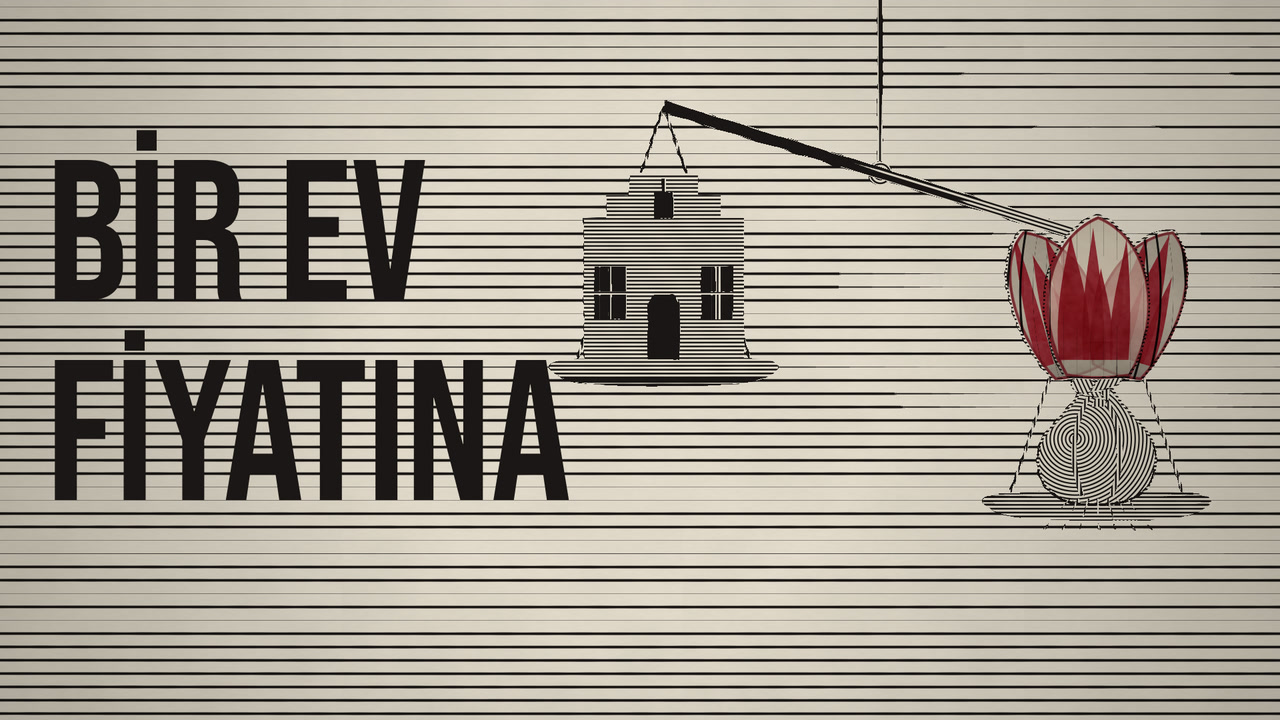
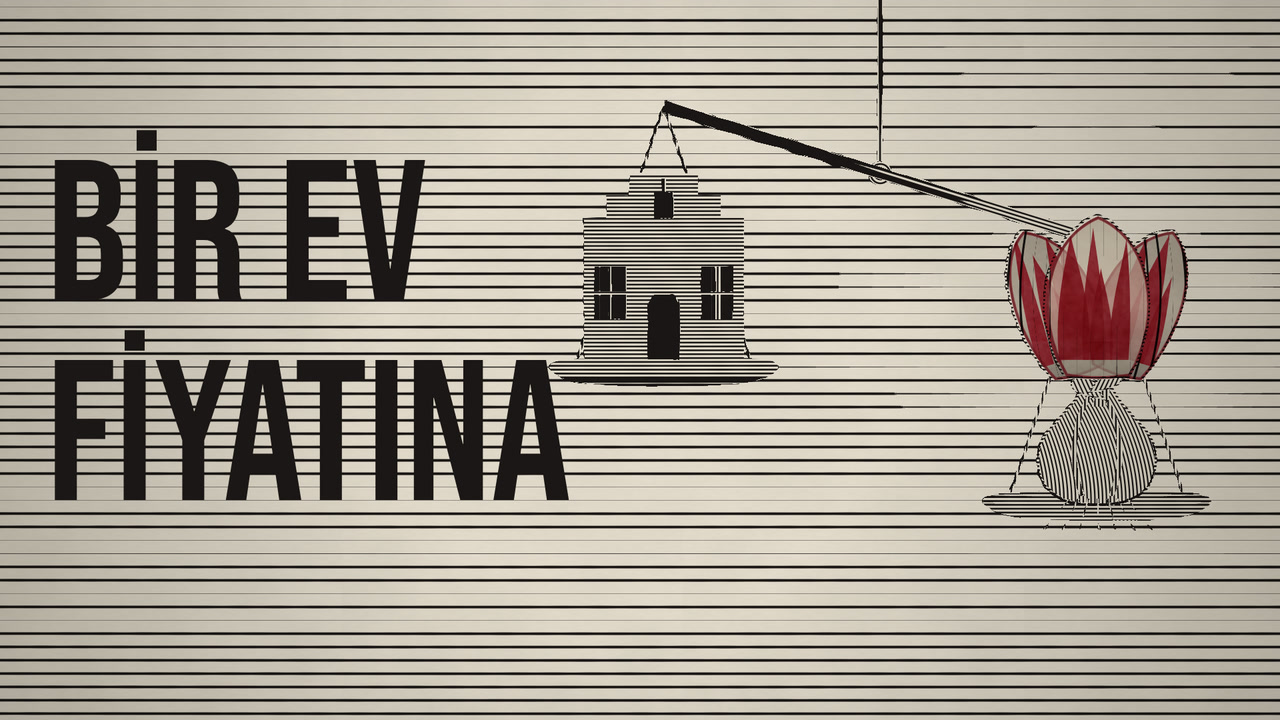
Lale Çılgınlığı: gerileme okumasının bulguları: halka tarama (hedef tahtası) sarık, soğan, kese, para, halat, hokka ve mühürden kaldırıldı (soğanda boyuna kabuk çizgisi); kaftanda kenar ışığı kaftanın kendi kenarında, önde açık çizgi yok; Patrona'nın çıkını kaldırıldı (kalkan okunuyordu); liste satı
Claude-Session: https://claude.ai/code/session_01DiDBPDZctK6KxWNTMmyQpA

Changed region(s): [[0.8125, 0.55, 0.9062, 0.7028]]

diff --git a/lale-cilginligi/lib/sahneler.js b/lale-cilginligi/lib/sahneler.js
@@ -151,7 +151,7 @@ PL('P015a', 'B05', 'SAN', 'ayrinti', st => { const u = io(st.lt / Math.max(2, st
   for (let i = 0; i < 7; i++) { const a = clamp((st.lt - .2 - i * .18) / .3); if (a > 0) LALE.sogan(650 + (i % 4) * 140 + (i > 3 ? 70 : 0), 650 - (i > 3 ? 56 : 0) - (1 - a) * 40, .7, { ton: .55 }); }
   GR.fill(SET.R(560, 680, 640, 56), GR.tone(.3), { th: 0, id: 9 }); GR.fill(SET.R(560, 680, 640, 6), GR.tone(.12), { th: 0, id: 9 });
   SET2.sayfa(1250, 520, 300, 190, { ton: .95 }); YAZI.ekle('Tulipan', 1296, 610, { font: 'el', px: 44 });
-  GR.fill(SET.E2(1500, 680, 24, 24), GR.tone(.14), { type: 'rad', cx: 1494, cy: 674, id: 9 });
+  GR.fill(SET.E2(1500, 680, 24, 20), GR.tone(.14), { th: .5, id: 9 });   // mühür
 } }; });
 PL('P015', 'B05@bin', 'LEI', 'genis', st => ({ cam: camLerp(CAM(960, 560, 1), CAM(860, 600, 1.1), st.p), bg: [.9, 0, 10], ciz: () => SET2.leiden(st.t) }),
   { over: etk('LEIDEN · 1593 · CAROLUS CLUSIUS') });
@@ -181,7 +181,7 @@ PL('P023', 'C04', 'ALE', 'yakin', st => ({ cam: camLerp(CAM(960, 600, 1.2), CAM(
 PL('P024a', 'C05', 'SEM', 'ayrinti', st => ({ cam: camLerp(CAM(960, 470, 1.0), CAM(960, 420, 1.12), st.p), bg: [.06, 0, 10], ciz: () => { GR.fill(SET.R(-200, -200, 2400, 1500), GR.tone(.05), { th: 0, id: 10 }); },
   // koyu duvar: künye (beyaz yazı) okunur; görsel künyenin altından başlar
   sonra: (ctx, cam) => { SET2.gorsel(ctx, cam, 'semper', 725, 150, 470, { golge: true }); } }),
-  { over: etk('SEMPER AUGUSTUS · ANONİM SULUBOYA, 1640 ÖNCESİ (NORTON SIMON MÜZESİ)', { px: 32 }) });
+  { over: etk('SEMPER AUGUSTUS · ANONİM SULUBOYA, 1640 ÖNCESİ', { px: 36 }) });
 PL('P024', 'C05@bin', 'AYN', 'orta', st => ({ cam: camLerp(CAM(960, 520, 1), CAM(960, 520, 1.12), st.p), bg: [.2, 0, 0], ciz: () => SET2.aynaKabine(st.t) }),
   { over: (ctx, st) => { const k = W_(st, 'C05', 'bin', 1); buyukYazi('1.200 GULDEN', { y: 800, px: 84, t0: k })(ctx, st); } });
 PL('P025', 'C06', 'KES', 'yakin', st => { const g = io((st.lt - 1.6) / .8); return { cam: camLerp(CAM(960, 620, 1.3), CAM(960, 620, 1.4), st.p), bg: [.15, 0, 0], ciz: () => {
@@ -204,7 +204,7 @@ PL('P032', 'D03', 'ODA', 'orta', st => ({ cam: camLerp(CAM(960, 620, 1.1), CAM(9
   SET2.arkaOda(st.t);
   const pos = [[560, 760], [960, 720], [1360, 760]], k = (st.lt * .8) % 3, i = Math.floor(k), u = E.io2(k - i), a = pos[i], b = pos[(i + 1) % 3];
   SET2.sayfa(lerp(a[0], b[0], u) - 70, lerp(a[1], b[1], u) - 120 - Math.sin(u * PI) * 60, 140, 100, { ton: .95 });
-  INSAN.adam({ x: 380, y: 1200, h: 800, yon: 1, arka: true, sapka: 'genis', yaka: 'duz', kenar: .35, kolOn: { a: .9, b: 1.0 } });
+  INSAN.adam({ x: 380, y: 1200, h: 800, yon: 1, arka: true, sapka: 'genis', yaka: 'duz', kenar: .75, kolOn: { a: .9, b: 1.0 } });   // koyu zeminde baş seçilsin
   SET2.usta({ x: 1560, y: 1200, h: 800, yon: -1, kenar: .4, kenarYan: -1, kolOn: { a: .9, b: 1.0 } });
 } }));
 PL('P033', 'D04', 'RUZ', 'genis', st => ({ cam: camLerp(CAM(960, 520, 1), CAM(1100, 500, 1.08), st.p), bg: [.9, 0, 10], ciz: () => {
@@ -216,22 +216,24 @@ PL('P033', 'D04', 'RUZ', 'genis', st => ({ cam: camLerp(CAM(960, 520, 1), CAM(11
 // D05: gerçek görsel. Crispijn van de Passe II, Floraes Mallewagen (1637), köşe resmi: Haarlem'de çiçekçilerin meyhane toplantısı (Rijksmuseum, CC0)
 PL('P034', 'D05', 'ODA', 'yakin', st => ({ cam: camLerp(CAM(960, 540, 1.0), CAM(1060, 520, 1.12), st.p), bg: [.15, 0, 0], ciz: () => { SET2.masaUst(-300, { ton: .14 }); },
   sonra: (ctx, cam) => { SET2.gorsel(ctx, cam, 'mwMeyhane', 160, 60, 1600, { kirp: [0, 0, 1, .86] }); } }),
-  { over: etk('“COMPARITY DER BLOEMISTEN TOT HARLEM” · 1637 GRAVÜRÜ (RIJKSMUSEUM)', { y: 120, px: 34 }) });
+  { over: etk('HAARLEM MEYHANESİNDE ÇİÇEKÇİLER · 1637 GRAVÜRÜ', { y: 120, px: 36 }) });
 // Switsers: fiyat çizgisi gibi yükselen sap; renk koyulaşır
 PL('P035', 'D06', 'SWI', 'ayrinti', st => { const u = io((st.lt - .5) / Math.max(1, st.d - 1)); return { cam: camLerp(CAM(960, 560, 1), CAM(960, 556, 1.05), st.p), bg: [.88, 0, 10], ciz: () => {
   GR.fill(SET.R(-200, -200, 2400, 1500), GR.tone(.93), { th: 0, id: 10 });
   for (let k = 0; k < 6; k++) GR.fill(SET.R(260, 800 - k * 118, 1400, 2), GR.tone(.5), { th: 0, id: 9 });
-  const x = 1500, y = 800 - u * 560;
-  const p = new Path2D(); p.moveTo(300, 780); p.bezierCurveTo(800, 772, 1200, 712 - u * 260, x, y + 40); p.lineTo(x + 6, y + 44); p.bezierCurveTo(1200, 718 - u * 260, 800, 778, 300, 786); p.closePath();
+  // eğri soldan sağa büyür ve hep yükselir (önceki çizimde ilk saniyede uç aşağı iniyordu: fiyat artarken düşüş)
+  const x = 300 + u * 1200, y = 780 - u * u * 540, v = Math.round(125 + u * u * 1375);
+  const p = new Path2D(); p.moveTo(300, 780); p.bezierCurveTo(300 + u * 700, 780, 300 + u * 1000, 780 - u * u * 160, x, y); p.lineTo(x + 4, y + 6); p.bezierCurveTo(300 + u * 1000, 786 - u * u * 160, 300 + u * 700, 786, 300, 786); p.closePath();
   GR.fill(p, GR.tone(.15), { th: 0, id: 9 });
-  LALE.ciz(x, y, 1.2 + u * .6, { sap: 0, cesit: 'switsers', ac: .2 + u * .2, renk: .4 + u * .6 });
-  YAZI.ekle('31 ARALIK 1636 · 125', 300, 836, { font: 'baslik', px: 36 }); YAZI.ekle('1 ŞUBAT 1637 · ' + Math.round(125 + u * 1375), 1180, 836, { font: 'baslik', px: 36 });
+  LALE.ciz(x, y - 4, 1.2 + u * .6, { sap: 0, cesit: 'switsers', ac: .2 + u * .2, renk: .4 + u * .6 });
+  YAZI.ekle('31 ARALIK 1636 · 125', 300, 836, { font: 'baslik', px: 36 }); YAZI.ekle((u > .97 ? '1 ŞUBAT 1637 · ' : '') + v, 1180, 836, { font: 'baslik', px: 36 });
 } }; }, { over: etk('SWITSERS · BİR LİBRESİ KAÇ GULDEN') });
 PL('P036', 'D07', 'MEZ', 'orta', st => ({ cam: camLerp(CAM(1040, 560, 1.3), CAM(1060, 540, 1.4), st.p), bg: [.1, 0, 0], ciz: () => mezatSalonu(st, { mezatKol: 2.1 }) }));
 PL('P037', 'D08', 'LIS', 'ayrinti', st => { const k = W_(st, 'D08', 'kâğıt'); return { cam: camLerp(CAM(960, 520, 1.1), CAM(960, 540, 1.0), st.p), bg: [.2, 0, 0], ciz: () => {
   SET2.masaUst(-300, { ton: .2 }); SET2.sayfa(560, 80, 800, 720, { ton: .95, cerceve: true });
   YAZI.ekle('Lijste van eenighe Tulpaen', 960, 170, { font: 'baslik', px: 40, align: 'center' });
   YAZI.ekle('verkocht aen de meest-biedende, op den 5. Februarij 1637', 960, 215, { font: 'italik', px: 28, align: 'center' });
+  GR.fill(SET.R(600, 255, 720, 220), GR.tone(1), { th: 0, id: 10 });   // satırların arkası temiz kâğıt
   const L = [['Viceroy', '4203'], ['Bruyn Purper', '2025'], ['Paragon van Delft', '605'], ['…', '']];
   L.forEach(([a, b], i) => { YAZI.ekle(a, 640, 290 + i * 52, { font: 'serif', px: 32 }); YAZI.ekle(b ? b + ' gl.' : '', 1280, 290 + i * 52, { font: 'serif', px: 32, align: 'right' }); });
   YAZI.ekle('90.000', 960, 620, { font: 'baslik', px: 64, align: 'center', a: clamp(st.lt / .8) });
@@ -287,7 +289,7 @@ PL('P046', 'E07', 'LIS', 'yakin', st => ({ cam: camLerp(CAM(960, 460, 1.4), CAM(
 
 // ═════════ 5. EFSANE ═════════
 PL('P046b', 'E07@ödendiğini', 'YET', 'orta', st => ({ cam: camLerp(CAM(960, 540, 1.08), CAM(960, 520, 1.16), st.p), bg: [.06, 0, 0], renk: 0, ciz: () => yetimler() }),
-  { over: buyukYazi('90.000 ?', { y: 160, px: 96, t0: .3 }) });
+  { over: buyukYazi('90.000?', { y: 160, px: 96, t0: .3 }) });
 PL('P050', 'F01', 'MAT', 'genis', st => ({ cam: camLerp(CAM(960, 540, 1), CAM(1000, 520, 1.1), st.p), bg: [.1, 0, 0], renk: 0, ciz: () => SET2.matbaa(st.t) }),
   { over: both(kartOver('F01'), etk('HAARLEM · 1637', { t0: 3.4 })) });
 PL('P051', 'F02', 'BRO', 'ayrinti', st => ({ cam: camLerp(CAM(960, 520, 1.15), CAM(960, 500, 1.25), st.p), bg: [.2, 0, 0], renk: 0, ciz: () => {
@@ -296,7 +298,6 @@ PL('P051', 'F02', 'BRO', 'ayrinti', st => ({ cam: camLerp(CAM(960, 520, 1.15), C
   YAZI.ekle('WAERMONDT ende GAERGOEDT', 960, 275, { font: 'baslik', px: 36, align: 'center' }); YAZI.ekle('nopende de opkomste ende ondergangh van Flora', 960, 320, { font: 'italik', px: 26, align: 'center' });
   INSAN.adam({ x: 820, y: 820, h: 420, yon: 1, sapka: 'genis', yaka: 'duz', kenar: .5, kolOn: { a: 1.0 + Math.sin(st.t * 2) * .2, b: .8 } });
   SET2.usta({ x: 1100, y: 820, h: 420, yon: -1, kenar: .5, kenarYan: -1, kolOn: { a: 1.2 + Math.sin(st.t * 2 + 1) * .2, b: .9 } });
-  YAZI.ekle('HAERLEM · ADRIAEN ROMAN · 1637', 960, 362, { font: 'baslik', px: 24, align: 'center' });
 } }), { over: (ctx, st) => { const k = W_(st, 'F02', 'doğrucu'); etiket(ctx, 'WAERMONDT = DOĞRUCU · GAERGOEDT = AÇGÖZLÜ', W / 2, 830, st.lt - k, st.d - k, { align: 'center', px: 40 }); } });
 PL('P052', 'F03', 'DOK', 'orta', st => { const k = W_(st, 'F03', 'tezgâhını'); const g = io((st.lt - k) / 1.6); return { cam: camLerp(CAM(960, 560, 1.05), CAM(960, 580, 1.12), st.p), bg: [.1, 0, 0], renk: 0, ciz: () => {
   GR.fill(SET.R(-200, -200, 2400, 1500), GR.tone(.12), { th: 0, id: 0 }); GR.fill(SET.R(-600, 900, 3100, 600), GR.tone(.25), { type: 'persp', y0: 900, D: 200, p0: 8, p1: 15, id: 8 });
@@ -326,7 +327,7 @@ PL('P056', 'F07', 'KIT', 'genis', st => ({ cam: camLerp(CAM(960, 560, 1), CAM(96
   const n = Math.min(9, 2 + Math.floor(st.lt * 1.4)); for (let i = 0; i < n; i++) SET2.kitap(700 - (i % 2) * 20, 760 - i * 66, 520, 60, { ton: .1 + (i % 3) * .2 });
 } }), { over: etk('1841 → 1900 → 1950 → 2000') });
 PL('P057', 'F08', 'ARS', 'orta', st => ({ cam: camLerp(CAM(960, 560, 1.02), CAM(1040, 660, 1.2), st.p), bg: [.07, 0, 0], renk: 0, ciz: () => {
-  SET2.arsiv(st.t); INSAN.adam({ x: 620, y: 1100, h: 640, yon: 1, arka: true, palto: .4, kenar: .45, kolOn: { a: 1.4, b: .5 } });
+  SET2.arsiv(st.t); INSAN.adam({ x: 620, y: 1100, h: 640, yon: 1, arka: true, palto: .4, kenar: .45, kolOn: { a: 1.3, b: .85 } });
 } }), { over: etk('ANNE GOLDGAR · TULIPMANIA, 2007') });
 PL('P058', 'F09', 'ARS', 'ayrinti', st => ({ cam: camLerp(CAM(960, 520, 1.15), CAM(960, 520, 1.25), st.p), bg: [.2, 0, 0], renk: 0, ciz: () => {
   SET2.masaUst(-300, { ton: .16 }); SET2.defter(360, 160, 1200, 760, { cizgi: 14 });
@@ -399,8 +400,8 @@ function narhDefteri(st, o = {}) {
 PL('P065', 'G06', 'NAR', 'ayrinti', st => ({ cam: camLerp(CAM(960, 520, 1.05), CAM(900, 480, 1.15), st.p), bg: [.2, 0, 0], ciz: () => narhDefteri(st) }),
   { over: both(etk('İSTANBUL KADILIĞI DEFTERİ · 28 HAZİRAN 1726', { px: 38, y: 100 }), (ctx, st) => etiket(ctx, 'Latin harfli aktarım: M. Münir Aktepe, 1953', W / 2, 830, st.lt - 1, st.d - 1, { align: 'center', px: 30 })) });
 PL('P066', 'G07', 'SUR', 'orta', st => ({ cam: camLerp(CAM(960, 600, 1.05), CAM(1060, 620, 1.15), st.p), bg: [.85, 0, 10], ciz: () => {
-  SET2.bogaz(st.t, { kosk: false, servi: [[200, 420]] }); SET2.gemi(1400, 700, 1, st.t);
-  SET2.osmanli({ x: 700, y: 1040, h: 560, yon: -1, sapka: 'kavuk', kenar: .45, kenarYan: -1, kolOn: { a: 1.2, b: .6 } });
+  SET2.bogaz(st.t, { kosk: false, servi: [[200, 420]] }); SET2.gemi(1660, 690, .9, st.t);
+  SET2.osmanli({ x: 700, y: 1040, h: 560, yon: -1, sapka: 'kavuk', kenar: .45, kenarYan: -1, kolOn: { a: .95, b: .95 } });
   SET.saksi(590, 880, .7); LALE.ciz(590, 830, .6, { sap: 40, tip: 'ist', cesit: 'ist' });
   SET2.osmanli({ x: 1080 + st.lt * 20, y: 1040, h: 520, yon: 1, arka: true, sapka: 'sarik', kenar: .4, adim: st.t * .8 });
 } }), { over: etk('NARHIN ÜSTÜNDE SATANA: MÜSADERE VE SÜRGÜN') });
@@ -418,10 +419,7 @@ PL('P070', 'H01', 'CAD', 'genis', st => ({ cam: camLerp(CAM(960, 540, 1), CAM(10
 PL('P071', 'H02', 'BEY', 'orta', st => { const kb = W_(st, 'H02', 'kalabalık'); const b = io((st.lt - kb + 1.2) / 2.4); return { cam: camLerp(CAM(960, 620, 1.1), CAM(960, 640, 1.0), st.p), bg: [.3, 0, 0], renk: 0, ciz: () => {
   SET2.carsi(st.t, { lale: false }); SET2.kalabalik(st.t, { n: 3 + Math.floor(b * 13), mesale: 0, karisik: true });
   SET2.osmanli({ x: 820, y: 1200, h: 780, yon: 1, arka: true, sapka: 'sarik', sarikTon: .3, kenar: .6, kolOn: { a: .25, b: .3 } });
-  // omzunda eski giysi çıkını: düzensiz, düğümlü (başın yanında açık disk hale, belde çizgili oval kalkan gibi okunuyordu)
-  GR.fill(INSAN.Sm([[724, 572], [778, 548], [842, 560], [870, 604], [856, 652], [800, 676], [742, 664], [716, 624]]), GR.tone(.34), { th: .25, id: 9 });
-  for (const [x1, y1, x2] of [[742, 600, 846], [736, 636, 838]]) GR.fill(SET.R(x1, y1, x2 - x1, 4), GR.tone(.12), { th: 0, id: 9 });
-  GR.fill(INSAN.F([[790, 552], [770, 520], [800, 540], [826, 516], [812, 556]]), GR.tone(.28), { th: 0, id: 9 });   // düğüm
+  // (eski giysi çıkını kaldırıldı: üç denemede de hale ya da kalkan okundu; Patrona önde, büyük ve künyesiyle ayrılıyor)
 } }; }, { over: etk('BEYAZIT · 28 EYLÜL 1730 · PATRONA HALİL') });
 PL('P072', 'H03', 'SAR', 'genis', st => { const k = W_(st, 'H03', 'ekimin'); return { cam: camLerp(CAM(960, 560, 1), CAM(960, 520, 1.12), st.p), bg: [.05, 0, 1], ciz: () => SET2.sarayKapi(st.t, { kandil: 1 - clamp((st.lt - k - 1.2) / 1.4), duvar: .32, kandilS: 2.0, kandilR: 560 }) }; },
   { over: (ctx, st) => { const k = W_(st, 'H03', 'ekimin'); etiket(ctx, '1 EKİM 1730', 150, 120, st.lt - k, st.d - k, { align: 'left' }); } });
@@ -449,10 +447,10 @@ PL('P080', 'I02', 'KRO', 'ayrinti', st => ({ cam: camLerp(CAM(960, 540, 1.05), C
 } }), { over: both(kartOver('I02'), etk('ON SEKİZİNCİ YÜZYIL VAKAYİNAMELERİ', { t0: 3.4, px: 38 })) });
 PL('P081', 'I03', 'IKD', 'orta', st => ({ cam: camLerp(CAM(960, 540, 1), CAM(960, 500, 1.12), st.p), bg: [.15, 0, 0], ciz: () => {
   SET2.masaUst(-300, { ton: .18 }); SET2.gazete(420, 100, 760, 880);
-  YAZI.ekle('İKDAM', 800, 200, { font: 'baslik', px: 80, align: 'center', ls: 10 }); YAZI.ekle('1913', 800, 245, { font: 'serif', px: 30, align: 'center' });
-  YAZI.ekle('Lâle Devri', 800, 320, { font: 'baslik', px: 46, align: 'center', a: clamp((st.lt - W_(st, 'I03', 'ahmed')) / .5) });
+  YAZI.ekle('İKDAM', 800, 200, { font: 'baslik', px: 80, align: 'center', ls: 10 }); YAZI.ekle('1913', 1000, 206, { font: 'serif', px: 32 });
+  YAZI.ekle('Lâle Devri', 800, 268, { font: 'baslik', px: 46, align: 'center', a: clamp((st.lt - W_(st, 'I03', 'ahmed')) / .5) });
   LALE.ciz(800, 560, .9, { sap: 40, tip: 'ist', cesit: 'ist', yaprakYok: true, renk: clamp((st.lt - W_(st, 'I03', 'ahmed')) / 1.2) });
-  INSAN.adam({ x: 1500, y: 1060, h: 700, yon: -1, kenar: .45, kenarYan: -1, kolOn: { a: 1.0, b: .6 }, biyik: true, sapka: 'fes' });
+  INSAN.adam({ x: 1500, y: 1060, h: 700, yon: -1, kenar: .45, kenarYan: -1, kolOn: { a: .9, b: .95 }, biyik: true, sapka: 'fes' });
 } }), { over: (ctx, st) => { etiket(ctx, 'ŞAİR YAHYA KEMAL', 150, 92, st.lt, W_(st, 'I03', 'ahmed'), { align: 'left' }); const k = W_(st, 'I03', 'ahmed'); etiket(ctx, 'TARİHÇİ AHMED REFİK', 1770, 92, st.lt - k, st.d - k, { align: 'right' }); } });
 PL('P082', 'I04', 'KIT', 'yakin', st => ({ cam: camLerp(CAM(960, 560, 1.15), CAM(960, 520, 1.25), st.p), bg: [.15, 0, 0], ciz: () => {
   SET2.masaUst(-300, { ton: .16 }); SET2.kitap(360, 160, 1200, 760, { acik: true });

diff --git a/lale-cilginligi/lib/setler2.js b/lale-cilginligi/lib/setler2.js
@@ -29,12 +29,12 @@ const SET2 = (() => {
   function masaUst(y, o = {}) { fill(R(-600, y, 3100, 900), o.ton ?? .22, { th: .03, id: 9 }); for (let k = 0; k < 9; k++) fill(R(-600, y + 40 + k * 70 + rnd(k) * 20, 3100, 3), .08, { th: .03, id: 9 }); }
   // tüy kalem ve hokka
   function kalem(x, y, a = -.6, s = 1) { const c = Math.cos(a), sn = Math.sin(a); fill(F([[x, y], [x + c * 260 * s - sn * 10, y + sn * 260 * s + c * 10], [x + c * 260 * s + sn * 18, y + sn * 260 * s - c * 18]]), .85, { th: a, id: 6 }); fill(F([[x - 4, y - 2], [x + c * 30, y + sn * 30], [x + 4, y + 2]]), .05, { th: a, id: 9 }); }
-  function hokka(x, y, s = 1) { fill(Sm([[x - 40 * s, y], [x + 40 * s, y], [x + 34 * s, y - 50 * s], [x + 14 * s, y - 62 * s], [x - 14 * s, y - 62 * s], [x - 34 * s, y - 50 * s]]), .08, { type: 'rad', cx: x - 10 * s, cy: y - 40 * s, id: 9 }); }
+  function hokka(x, y, s = 1) { fill(Sm([[x - 40 * s, y], [x + 40 * s, y], [x + 34 * s, y - 50 * s], [x + 14 * s, y - 62 * s], [x - 14 * s, y - 62 * s], [x - 34 * s, y - 50 * s]]), .08, { th: HV, id: 9 }); }
   function mumluk(x, y, t, s = 1) { fill(Sm([[x - 40 * s, y], [x + 40 * s, y], [x + 20 * s, y - 14 * s], [x - 20 * s, y - 14 * s]]), .3, { th: H0, id: 9 }); SET.mum(x, y - 54 * s, t, s); }
   // para: gulden yığını (n sikke)
-  function para(x, y, n, s = 1) { for (let i = 0; i < n; i++) { const cx = x + (rnd(i * 3) - .5) * 30 * s, cy = y - i * 7 * s; fill(E2(cx, cy, 26 * s, 9 * s), .7 + (i % 2) * .1, { type: 'rad', cx, cy, id: 9 }); fill(E2(cx, cy, 26 * s, 9 * s), .3, { th: H0, id: 9 }); fill(E2(cx, cy - 2 * s, 22 * s, 7 * s), .82, { type: 'rad', cx, cy, id: 9 }); } }
+  function para(x, y, n, s = 1) { for (let i = 0; i < n; i++) { const cx = x + (rnd(i * 3) - .5) * 30 * s, cy = y - i * 7 * s; fill(E2(cx, cy, 26 * s, 9 * s), .7 + (i % 2) * .1, { th: 0, id: 9 }); fill(E2(cx, cy, 26 * s, 9 * s), .3, { th: H0, id: 9 }); fill(E2(cx, cy - 2 * s, 22 * s, 7 * s), .82, { type: 'rad', cx, cy, id: 9 }); } }
   // kese
-  function kese(x, y, s = 1) { fill(Sm([[x - 50 * s, y], [x + 50 * s, y], [x + 60 * s, y - 50 * s], [x + 20 * s, y - 90 * s], [x - 20 * s, y - 90 * s], [x - 60 * s, y - 50 * s]]), .3, { type: 'rad', cx: x - 15 * s, cy: y - 50 * s, id: 9 }); fill(R(x - 22 * s, y - 100 * s, 44 * s, 12 * s), .1, { th: H0, id: 9 }); }
+  function kese(x, y, s = 1) { fill(Sm([[x - 50 * s, y], [x + 50 * s, y], [x + 60 * s, y - 50 * s], [x + 20 * s, y - 90 * s], [x - 20 * s, y - 90 * s], [x - 60 * s, y - 50 * s]]), .3, { th: Math.PI / 2 + .25, id: 9 }); for (const d of [-26, 0, 26]) fill(R(x + d * s - 2, y - 84 * s, 4, 70 * s), .12, { th: H0, id: 9 }); /* kese: büzgüden inen kıvrımlar */ fill(R(x - 22 * s, y - 100 * s, 44 * s, 12 * s), .1, { th: H0, id: 9 }); }
   // ── KIŞ YOLU: karlı tepeler, yol, araba (kupa), atlı silueti; o.t
   function kisYolu(o = {}) {
     const t = o.t || 0;
@@ -82,7 +82,7 @@ const SET2 = (() => {
     fill(Sm([[x - 260 * s, y + 420 * s], [x - 200 * s, y + 200 * s], [x - 110 * s, y + 120 * s], [x + 130 * s, y + 120 * s], [x + 220 * s, y + 200 * s], [x + 280 * s, y + 420 * s]]), .05, { th: HV, id: 9 });
     fill(Sm([[x - 110 * s, y + 140 * s], [x - 130 * s, y + 20 * s], [x - 90 * s, y - 40 * s], [x + 90 * s, y - 40 * s], [x + 130 * s, y + 20 * s], [x + 110 * s, y + 140 * s]]), .05, { th: .9, id: 6 });
     // tülbent: yuvarlak kütle, sargı bantları
-    fill(Sm([[x - 200 * s, y - 20 * s], [x - 210 * s, y - 120 * s], [x - 140 * s, y - 220 * s], [x, y - 250 * s], [x + 150 * s, y - 220 * s], [x + 215 * s, y - 120 * s], [x + 200 * s, y - 20 * s], [x, y + 10 * s]]), .9, { type: 'rad', cx: x, cy: y - 100 * s, id: 9 });
+    fill(Sm([[x - 200 * s, y - 20 * s], [x - 210 * s, y - 120 * s], [x - 140 * s, y - 220 * s], [x, y - 250 * s], [x + 150 * s, y - 220 * s], [x + 215 * s, y - 120 * s], [x + 200 * s, y - 20 * s], [x, y + 10 * s]]), .9, { th: -.15, id: 9 });   // sargı yönünde tarama (halka tarama hedef tahtası okunuyordu)
     for (let k = 0; k < 6; k++) { const yy = y - 30 * s - k * 36 * s, ww = 200 * s * (1 - k * .1); fill(Sm([[x - ww, yy], [x - ww * .3, yy - 20 * s], [x + ww * .6, yy - 34 * s], [x + ww, yy - 26 * s], [x + ww * .6, yy - 22 * s], [x - ww * .3, yy - 8 * s]]), .62, { th: -.15, id: 9 }); }
     LALE.ciz(x + 150 * s, y - 150 * s, 1.1 * s, { sap: 40 * s, tip: 'ist', cesit: 'ist', egim: .55, yaprakYok: true });
   }
@@ -200,7 +200,7 @@ const SET2 = (() => {
     fill(R(560, 40, 12, 460), .06, { th: HV, id: 9 });
     fill(R(-600, 840, 3100, 700), .32, { type: 'persp', y0: 840, D: 220, p0: 7, p1: 14, id: 8 });
     for (let x = -300; x < 2400; x += 260) fill(R(x, 760, 26, 120), .08, { th: HV, id: 9 });
-    fill(E2(1200, 900, 120, 40), .35, { type: 'rad', cx: 1200, cy: 900, id: 9 }); fill(E2(1200, 880, 90, 30), .45, { type: 'rad', cx: 1200, cy: 880, id: 9 });   // halat yığını
+    for (let k = 0; k < 4; k++) fill(E2(1200 + (k % 2) * 8, 905 - k * 14, 120 - k * 14, 16), .4 + (k % 2) * .12, { th: .35, id: 9 });   // halat yığını: üst üste kangallar (halka tarama hedef okunuyordu)
   }
   // bacacı: merdiven, uzun fırça; elinde boyalı lale (Mackay'in iddiası)
   function bacaci(x, y, t) {

diff --git a/lale-cilginligi/lib/insan.js b/lale-cilginligi/lib/insan.js
@@ -54,10 +54,11 @@ const INSAN = (() => {
       : pl ? [[-70, -646], [-30, -664], [34, -664], [76, -646], [112, -560], [124, -420], [132, -330], [-126, -330], [-118, -420], [-108, -560]]
       : [[-64, -642], [-30, -662], [34, -662], [70, -642], [84, -604], [80, -540], [64, -470], [70, -420], [92, et], [-86, et], [-66, -420], [-58, -470], [-70, -540], [-78, -604]];
     fill(Sm(govde), ton);
-    if (kn != null) { const yanX = ks > 0 ? [[70, -642], [84, -604], [80, -540], [64, -470], [70, -420], [92, et]] : [[-64, -642], [-78, -604], [-70, -540], [-58, -470], [-66, -420], [-86, et]]; serit(yanX, 7, kn, ks); }
+    if (kn != null) { const yanX = kf ? (ks > 0 ? [[70, -642], [88, -604], [90, -520], [84, -420], [104, -200], [124, et]] : [[-64, -642], [-80, -604], [-82, -520], [-80, -420], [-98, -200], [-118, et]])   // kaftanda kenar ışığı kaftanın kendi kenarında (redingot hattı kaftanın içine düşüp önde dikey çizgi oluyordu)
+      : ks > 0 ? [[70, -642], [84, -604], [80, -540], [64, -470], [70, -420], [92, et]] : [[-64, -642], [-78, -604], [-70, -540], [-58, -470], [-66, -420], [-86, et]]; serit(yanX, 7, kn, ks); }
     // kıvrımlar (beyaz vuruşlar) ve önden yaka açıklığı / arkadan yırtmaç
     if (o.arka) { vurus(4, -430, 6, et + 10, 4, .5); if (kn != null) { vurus(40 * ks, -560, 28 * ks, -470, 4, kn * .9); vurus(30 * ks, -440, 50 * ks, et + 40, 3, kn * .8); } }
-    else { fill(F([[0, -654], [16, -654], [30, -480], [8, -440], [-14, -480]]), .16, { th: PI / 2, id: 9 }); if (!kf) vurus(10, -460, 34, et + 20, 3, .7); /* kaftanda önden eteğe inen açık çizgi yok: kuşakla haç okunuyordu (Fable son okuması) */ if (kn != null) vurus(46 * ks, -600, 40 * ks, -500, 4, kn); }
+    else { if (!kf) fill(F([[0, -654], [16, -654], [30, -480], [8, -440], [-14, -480]]), .16, { th: PI / 2, id: 9 }); if (!kf) vurus(10, -460, 34, et + 20, 3, .7); /* kaftanda önden eteğe inen açık çizgi yok: kuşakla haç okunuyordu (Fable son okuması) */ if (kn != null) vurus(46 * ks, -600, 40 * ks, -500, 4, kn); }
     // yaka (beyaz) ve boyun
     if (o.yaka === 'duz') fill(Sm([[-70, -650], [-40, -690], [44, -690], [78, -650], [70, -606], [20, -598], [-10, -598], [-64, -606]]), o.arka ? .78 : .92, { th: 0, id: 5 });   // 1630'lar Hollanda: omuza yayılan düz beyaz yaka
     else if (kf) { fill(F([[-20, -684], [26, -684], [30, -660], [-24, -660]]), .35, { th: 0, id: 9 }); if (!o.arka) { fill(F([[-4, -662], [10, -662], [2, -600]]), .3, { th: PI / 2, id: 9 }); fill(Sm([[-74, -470], [78, -470], [84, -400], [-80, -400]]), .07, { th: .15, id: 9 }); } }   // kaftan: önde açık şerit yok (haç okunmasın, 22 Kasım); yalnız boyunda küçük yaka ve geniş koyu şal kuşak

diff --git a/lale-cilginligi/lib/lale.js b/lale-cilginligi/lib/lale.js
@@ -87,7 +87,7 @@ const LALE = (() => {
     const Sm = INSAN.Sm, fill = INSAN.fill;
     const g = Sm([[x, y - 70 * s], [x + 22 * s, y - 44 * s], [x + 46 * s, y - 14 * s], [x + 44 * s, y + 18 * s], [x + 20 * s, y + 34 * s], [x - 20 * s, y + 34 * s], [x - 44 * s, y + 18 * s], [x - 46 * s, y - 14 * s], [x - 22 * s, y - 44 * s]]);
     GR.save(); GR.tx.lineWidth = 4 * s; GR.px.lineWidth = 4 * s; GR.tx.strokeStyle = GR.tone(.05); GR.tx.stroke(g); GR.px.strokeStyle = GR.hatch({ th: 0, id: 9 }); GR.px.stroke(g); GR.restore();
-    fill(g, o.ton ?? .5, { type: 'rad', cx: x - 18 * s, cy: y - 18 * s, id: 9 });
+    fill(g, o.ton ?? .5, { type: 'bend', ox: x, oy: y + 34 * s, a: -PI / 2, k: .0035 / s, id: 9 });   // boyuna kabuk çizgileri (halka tarama küçük boyda hedef tahtası okunuyordu)
     for (const d of [-1, 1]) { const k = new Path2D(); k.moveTo(x, y - 66 * s); k.quadraticCurveTo(x + d * 34 * s, y - 20 * s, x + d * 14 * s, y + 30 * s); k.lineTo(x + d * 10 * s, y + 30 * s); k.quadraticCurveTo(x + d * 28 * s, y - 20 * s, x, y - 60 * s); fill(k, .12, { th: PI / 2, id: 9 }); }
     // kökler
     for (let i = -3; i <= 3; i++) { const r = new Path2D(); r.moveTo(x + i * 8 * s, y + 32 * s); r.quadraticCurveTo(x + i * 12 * s, y + 46 * s, x + i * 15 * s + rnd(i) * 6, y + 58 * s); r.lineTo(x + i * 15 * s + 2, y + 58 * s); r.quadraticCurveTo(x + i * 12 * s + 2, y + 46 * s, x + i * 8 * s + 3, y + 32 * s); fill(r, .2, { th: PI / 2, id: 9 }); }
